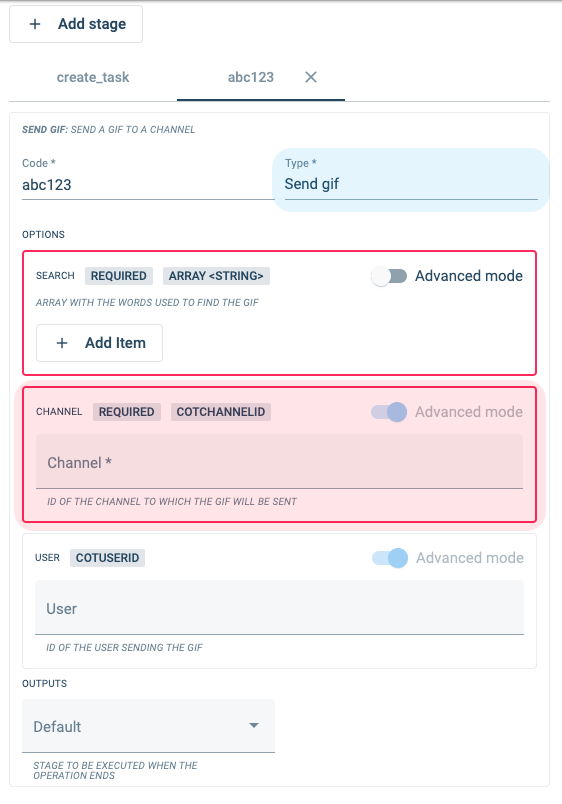
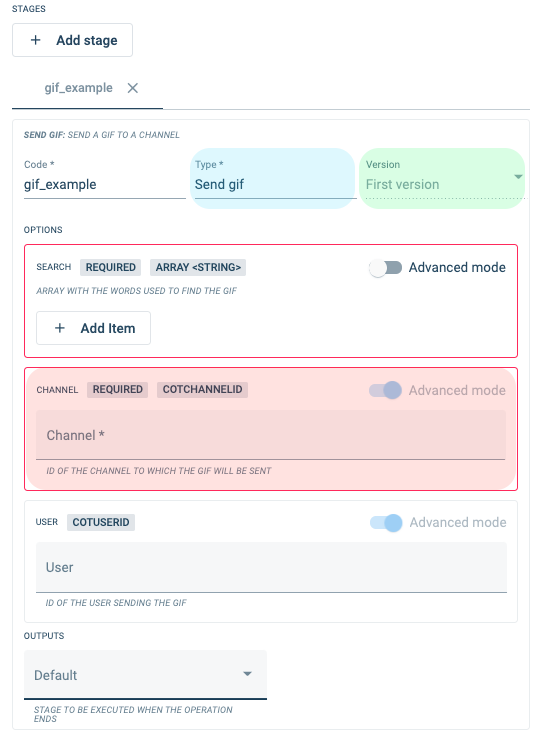
Whatsapp Manual instructions

diff --git a/docs/documentation/automation/admin_routine.md b/docs/documentation/automation/admin_routine.md
@@ -60,7 +60,7 @@ Below you will find the description and notes for each field in the Routine Buil
 | Version | Select the stage type version. | Available versions will appear in the dropdown menu. For more information, [click here](#stage-type-versions).|
 
 ## Stage Type Configuration {#configure-stage-types}
-After selecting <span className="badge badge--primary">+ Add Stage</span>, there are various _stages_ or _steps_ that can be chosen and configured. The **Type** field has a dropdown menu with a list of all the available _stage bots_. If you hover over the name, a brief explanation of the function will be displayed. <br/>
+After selecting <span className="badge badge--primary">+ Add Stage</span>, there are various _stages_ or _steps_ that can be chosen and configured. The **Type** field has a dropdown menu with a list of all the available _stage bots_. If you hover over the name, a brief explanation of the function will be displayed. There is also a [**Version**](#stage-type-versions) field with which you can set the stage type's version if available.
 
 
 <div className="alert alert--secondary">
@@ -87,7 +87,7 @@ Stage Types will be explained in the following table:
 :::tip
 - Click links for more detailed information.
 - When using _automation logs_, stage types will be referred to by the _key_ indicated in this table.
-  :::
+:::
 
 | Stage Type Name (Bot) | Description | Key |
 | ---- | ---- | ---- |
@@ -132,40 +132,6 @@ Stage Types will be explained in the following table:
 | [WhatsApp Integration](/docs/documentation/automation/bots/pbwhatsapp) | Send message via WhatsApp | _PBWhatsApp_ |
 
 
-<!-- | Field | Description | Notes | 
-| ---- | ----------- | ----- | 
-| Iterar | Itera sobre un Array |  | 
-| Condicional | Ejecuta la siguiente etapa condicionalmente en función de la mano izquierda y derecha del operador |  | 
-| Switch múltiple | Ejecuta condicionalmente y en paralelo todas las etapas en función de la mano izquierda y derecha del operador |  | 
-| Switch | Ejecuta condicionalmente la siguiente etapa en función de la mano izquierda y derecha del operador |  | 
-| Ejecutar bot legado | Hace una solicitud de red para ejecutar un bot legado |  | 
-| Solicitud de red | Hace una solicitud de red |  | 
-| Esperar | Ejecuta la siguiente etapa después de los milisegundos definidos |  | 
-| Buscar respuestas | Busca respuestas de formularios |  | 
-| Cambiar estado de Tarea | Cambia el estado de una Tarea |  | 
-| Editar usuarios de Canal | Añade o remueve usuarios de un Canal |  | 
-| Obtener Tarea de un Canal | Obtiene la Tarea asociada a un Canal (en caso de que exista) |  | 
-| Limpiar canales | Elimina los mensajes que tengan los canales indicados |  | 
-| Copiar mensajes | Copia mensajes de un Canal a otro |  | 
-| Crear Canal | Crea un nuevo Canal |  | 
-| Crear Propiedad | Crea una nueva Propiedad |  | 
-| Crear Tarea | Crear una nueva Tarea |  | 
-| Crear Usuario | Crea un nuevo Usuario |  | 
-| Cambiar Formulario a modo edición | Cambia un conjunto de formularios a modo edición |  | 
-| Enviar email | Envía un email |  | 
-| Enviar gif | Envía un gif a un Canal |  | 
-| Ocultar mensajes | Oculta mensajes de un Canal |  | 
-| Enviar mensaje | Envía un mensaje a un conjunto de canales |  | 
-| Crear PDF | Crea un PDF a partir de un archivo local o una URL |  | 
-| Generar código QR | Genera un código QR |  | 
-| Enviar Formulario | Envía un Formulario a un Canal |  | 
-| Editar usuarios de una Tarea | Añade o remueve los usuarios de una Tarea |  | 
-| Generar HTML | Genera un HTML a partir de una plantilla y un objeto con datos |  | 
-| Actualizar Canal | Actualiza un Canal |  | 
-| Actualizar Propiedad | Actualiza una Propiedad |  | 
-| Actualizar Tarea | Actualiza una Tarea |  | 
-| Actualizar Usuario | Actualizar un Usuario |  |  -->
-
 ### Stage Type Versions {#stage-type-versions}
 
 _Stage types_ are actually predefined system bots. Every once in a while, we update these bots, adding new features and options, or just improving automations. But, because these changes might affect your existing _routines_, access to older versions are available.
@@ -179,7 +145,7 @@ You can see where the _version_ field is located and how versions can have diffe
 :::caution Attention
 - In case a new version is available, an alert message will appear in the settings panel.
 - If you change the version of a stage type, you will not be able to go back to previous versions after saving.
-  :::
+:::
 
 ## Run Routine {#run-routine}
 

diff --git a/docs/documentation/automation/bots/pbwhatsapp-manual.md b/docs/documentation/automation/bots/pbwhatsapp-manual.md
@@ -1,12 +1,45 @@
+import useBaseUrl from '@docusaurus/useBaseUrl';
+
 ## Overview
 
-This stage-bot permits sending automated messages through WhatsApp. Configure templates with your message...
+This stage-bot permits sending automated messages to WhatsApp users.
 
-## Requirements
+You will need the following:
+- A **contract code** (Refer to your contract addendum 'Whatsapp and SMS Integrations' or contact you Cotalker sales representative).
+- Recipient's full international phone number, e.g., +1 (234) 555-6789
+- Template information
+
+**Templates** are used for sending automated messages. Templates can be personalized but they require Facebook approval, which can take awhile. We recommend you use our already approved and ready-to-use _Default_ template.
+
+## Default Template:
+
+<div className="alert alert--secondary">
+
+Hi `NAME`! You have a new request for the process `WORKFLOW NAME`. 
+📝 The link to complete the request is: `URL LINK`
+
+</div>
+<br/>
 
 ## Basic Setup
 
+- `NAME`: The recipients name should be set in the settings panel's **Name** field.
+- `WORKFLOW NAME`: The _workflow name_ should be set in the settings panel's **First** field.
+- `URL LINK`: The link should be placed in the settings panel's **Second** field.
+
+_The settings panel should look something like this:_
+
+<img alt="whatsapp message" className="img_sizing_narrow item shadow--tl" src={useBaseUrl('img/automations_routines_stage_whatsapp_01.png')} />
+<br/>
+
 ## Expected Results
 
-## Technical Details
+_Your message will look something like this:_
+
+<img alt="whatsapp message" className="img_sizing_narrow item shadow--tl" src={useBaseUrl('img/automations_routines_stage_whatsapp_00.jpeg')} />
+<br/>
+
+-----
+
+
 

diff --git a/docs/documentation/automation/bots/pbwhatsapp.md b/docs/documentation/automation/bots/pbwhatsapp.md
@@ -1,15 +1,48 @@
 # WhatsApp Integration  
+import useBaseUrl from '@docusaurus/useBaseUrl';
+
 ## Overview
 
+This stage-bot permits sending automated messages to WhatsApp users.
 
+You will need the following:
+- A **contract code** (Refer to your contract addendum 'Whatsapp and SMS Integrations' or contact you Cotalker sales representative).
+- Recipient's full international phone number, e.g., +1 (234) 555-6789
+- Template information
 
-## Requirements
+**Templates** are used for sending automated messages. Templates can be personalized but they require Facebook approval, which can take awhile. We recommend you use our already approved and ready-to-use _Default_ template.
+
+## Default Template:
+
+<div className="alert alert--secondary">
+
+Hi `NAME`! You have a new request for the process `WORKFLOW NAME`. 
+📝 The link to complete the request is: `URL LINK`
+
+</div>
+<br/>
 
 ## Basic Setup
 
+- `NAME`: The recipients name should be set in the settings panel's **Name** field.
+- `WORKFLOW NAME`: The _workflow name_ should be set in the settings panel's **First** field.
+- `URL LINK`: The link should be placed in the settings panel's **Second** field.
+
+_The settings panel should look something like this:_
+
+<img alt="whatsapp message" className="img_sizing_narrow item shadow--tl" src={useBaseUrl('img/automations_routines_stage_whatsapp_01.png')} />
+<br/>
+
 ## Expected Results
 
-## Technical Details
+_Your message will look something like this:_
+
+<img alt="whatsapp message" className="img_sizing_narrow item shadow--tl" src={useBaseUrl('img/automations_routines_stage_whatsapp_00.jpeg')} />
+<br/>
+
+-----
+
+
 
   
 **Send message via WhatsApp**  
